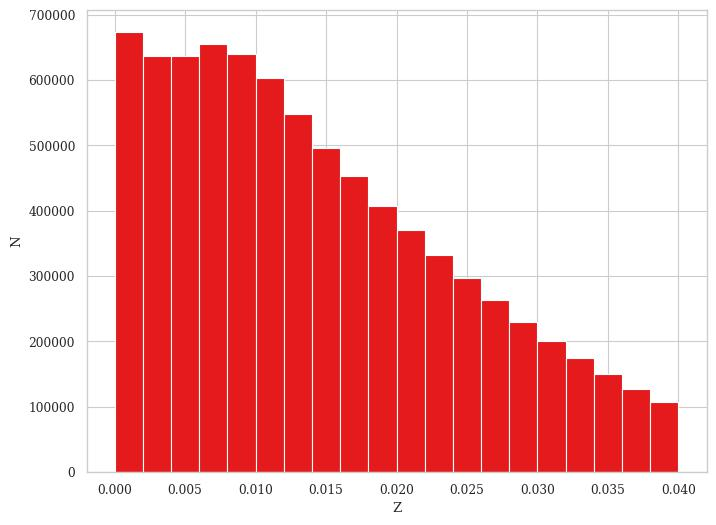
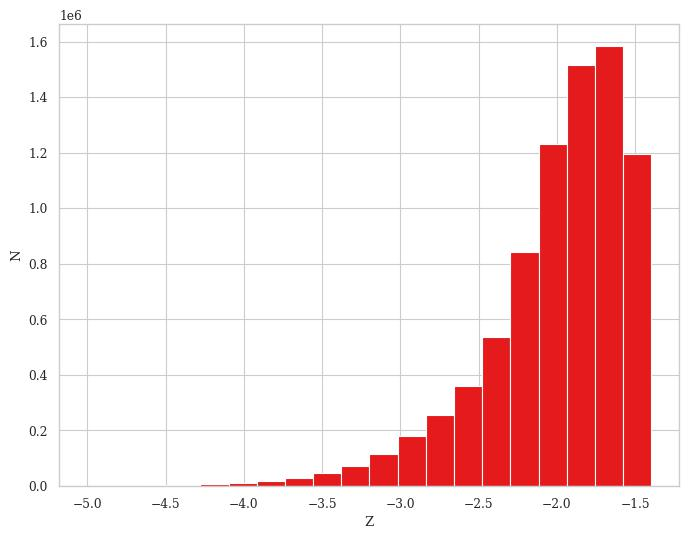
relog Z

diff --git a/mcmc/analyzeMCMC.py b/mcmc/analyzeMCMC.py
@@ -112,7 +112,7 @@ def main():
     chain = np.load('chain.npy')
 
     # log Z
-    #chain[:, 2] = np.log10(chain[:, 2])
+    chain[:, 2] = np.log10(chain[:, 2])
     
     plotCorner(chain)
     testGaussian(chain)
